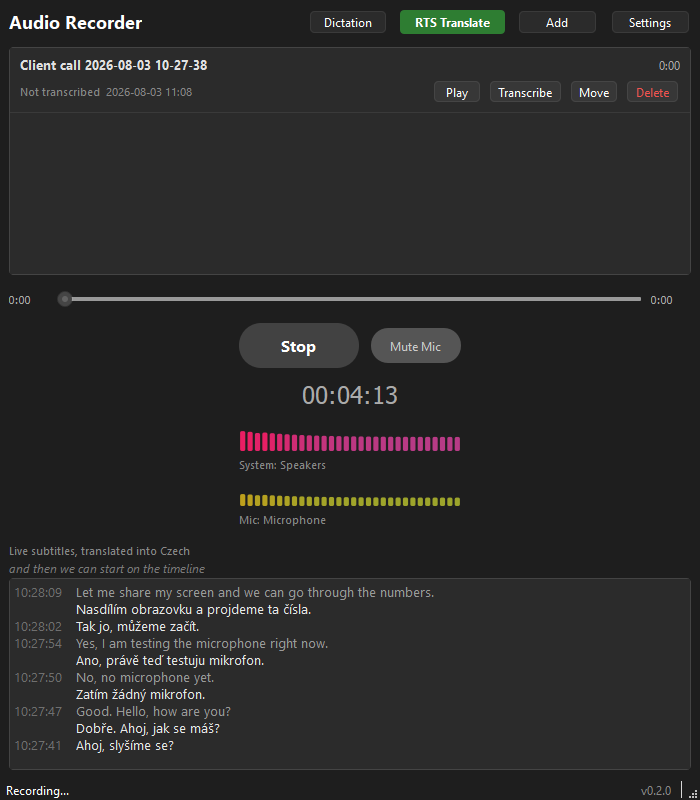
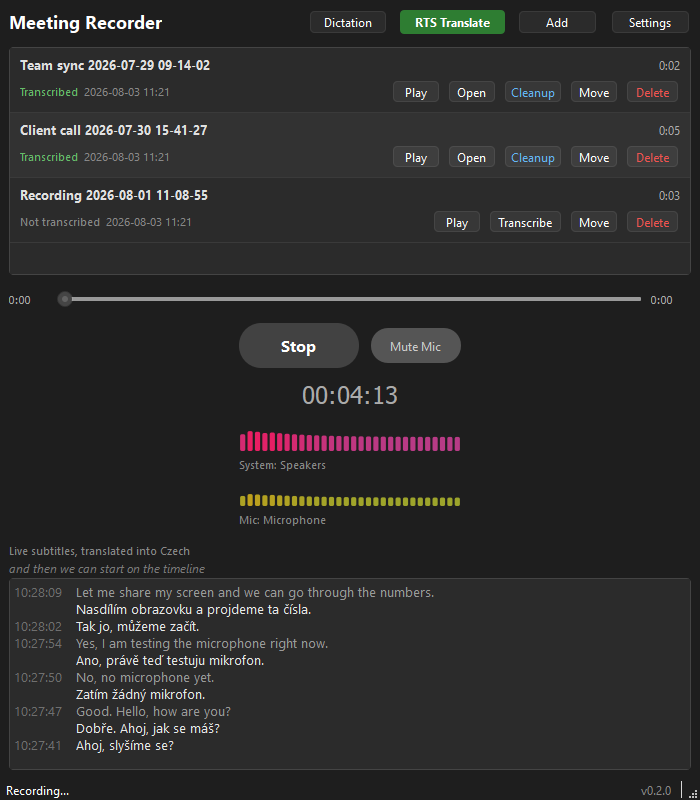
rename: Meeting Recorder, and release v0.2.0 live subtitles

diff --git a/scripts/build.py b/scripts/build.py
@@ -23,14 +23,14 @@ from pathlib import Path
 ROOT = Path(__file__).resolve().parent.parent
 DIST = ROOT / "dist"
 RELEASE = ROOT / "release"
-SPEC = ROOT / "AudioRecorder.spec"
+SPEC = ROOT / "MeetingRecorder.spec"
 ASSETS = ROOT / "audiorecorder" / "assets"
 
 sys.path.insert(0, str(ROOT))
 from audiorecorder.version import __version__  # noqa: E402
 
-PRODUCT = "Audio Recorder"
-ARTIFACT_STEM = "Audio-Recorder"
+PRODUCT = "Meeting Recorder"
+ARTIFACT_STEM = "Meeting-Recorder"
 ICON_SIZES = (16, 32, 48, 64, 128, 256, 512, 1024)
 
 
@@ -85,7 +85,7 @@ def build():
 
 
 def package_windows():
-    executable = DIST / "AudioRecorder.exe"
+    executable = DIST / "MeetingRecorder.exe"
     if not executable.exists():
         raise SystemExit(f"{executable} is missing, run the build first")
     target = RELEASE / f"{ARTIFACT_STEM}-{__version__}-{arch_tag()}.exe"
@@ -111,25 +111,25 @@ def package_macos():
 
 
 def package_linux():
-    program = DIST / "AudioRecorder"
+    program = DIST / "MeetingRecorder"
     if not program.exists():
         raise SystemExit(f"{program} is missing, run the build first")
 
     tarball = RELEASE / f"{ARTIFACT_STEM}-{__version__}-linux-{arch_tag()}.tar.gz"
     tarball.unlink(missing_ok=True)
-    run(["tar", "-czf", str(tarball), "-C", str(DIST), "AudioRecorder"])
+    run(["tar", "-czf", str(tarball), "-C", str(DIST), "MeetingRecorder"])
 
-    appdir = DIST / "AudioRecorder.AppDir"
+    appdir = DIST / "MeetingRecorder.AppDir"
     if appdir.exists():
         shutil.rmtree(appdir)
     shutil.copytree(program, appdir / "usr" / "bin")
-    shutil.copy2(ROOT / "packaging" / "appimage" / "audio-recorder.desktop",
-                 appdir / "audio-recorder.desktop")
-    shutil.copy2(ASSETS / "icon.png", appdir / "audio-recorder.png")
+    shutil.copy2(ROOT / "packaging" / "appimage" / "meeting-recorder.desktop",
+                 appdir / "meeting-recorder.desktop")
+    shutil.copy2(ASSETS / "icon.png", appdir / "meeting-recorder.png")
     apprun = appdir / "AppRun"
     apprun.write_text(
         '#!/bin/sh\nHERE="$(dirname "$(readlink -f "$0")")"\n'
-        'exec "$HERE/usr/bin/AudioRecorder" "$@"\n', encoding="utf-8", newline="\n")
+        'exec "$HERE/usr/bin/MeetingRecorder" "$@"\n', encoding="utf-8", newline="\n")
     apprun.chmod(0o755)
 
     tool = shutil.which("appimagetool") or shutil.which("appimagetool-x86_64.AppImage")

diff --git a/audiorecorder/ui/main_window.py b/audiorecorder/ui/main_window.py
@@ -123,7 +123,7 @@ class MainWindow(QMainWindow):
         self._hotkey_filter = DictationHotkeyFilter(lambda: self._dictation_active)
         QApplication.instance().installEventFilter(self._hotkey_filter)
 
-        self.setWindowTitle(f"Audio Recorder - v{__version__}")
+        self.setWindowTitle(f"Meeting Recorder - v{__version__}")
         self.setMinimumSize(600, 650)
         self._build_ui()
         self._refresh_list()
@@ -154,7 +154,7 @@ class MainWindow(QMainWindow):
 
         # --- Header ---
         header = QHBoxLayout()
-        title = QLabel("Audio Recorder")
+        title = QLabel("Meeting Recorder")
         title.setStyleSheet("font-size: 18px; font-weight: bold;")
         header.addWidget(title)
         header.addStretch()

diff --git a/audiorecorder/update_check.py b/audiorecorder/update_check.py
@@ -12,8 +12,8 @@ import re
 
 import requests
 
-RELEASES_API = "https://api.github.com/repos/ludekvodicka/AudioRecorder/releases/latest"
-RELEASES_PAGE = "https://github.com/ludekvodicka/AudioRecorder/releases/latest"
+RELEASES_API = "https://api.github.com/repos/ludekvodicka/MeetingRecorder/releases/latest"
+RELEASES_PAGE = "https://github.com/ludekvodicka/MeetingRecorder/releases/latest"
 TIMEOUT_SECONDS = 5
 
 _SEMVER = re.compile(r"^v?(\d+)\.(\d+)\.(\d+)")

diff --git a/scripts/generate_third_party.py b/scripts/generate_third_party.py
@@ -26,7 +26,7 @@ SPECIFIER = re.compile(r"[<>=!~]")
 
 HEADER = """# Third-party components
 
-Audio Recorder is distributed with the Python packages below, together with the
+Meeting Recorder is distributed with the Python packages below, together with the
 dependencies those packages bring in themselves. Each remains under its own licence, held
 by its own authors.
 

diff --git a/audiorecorder/config.py b/audiorecorder/config.py
@@ -11,6 +11,8 @@ from pathlib import Path
 
 import platformdirs
 
+# "AudioRecorder", not the current product name: this decides where an existing
+# installation already keeps its settings. Renaming it would strand what is there.
 CONFIG_DIR = Path(platformdirs.user_config_dir("AudioRecorder", appauthor=False))
 CONFIG_PATH = CONFIG_DIR / "config.json"
 

diff --git a/audiorecorder/single_instance.py b/audiorecorder/single_instance.py
@@ -13,6 +13,8 @@ import logging
 from PyQt6.QtCore import QObject, pyqtSignal
 from PyQt6.QtNetwork import QLocalServer, QLocalSocket
 
+# The original product name, so a copy left running from an older build is still
+# recognised as the same application during an upgrade.
 SERVER_NAME = "AudioRecorder.single-instance"
 CONNECT_TIMEOUT_MS = 500
 

diff --git a/audiorecorder/secrets.py b/audiorecorder/secrets.py
@@ -11,6 +11,8 @@ import os
 import keyring
 from keyring.errors import KeyringError
 
+# "AudioRecorder", not the current product name: this decides where an existing
+# installation already keeps the stored key. Renaming it would strand what is there.
 SERVICE = "AudioRecorder"
 ACCOUNT = "soniox-api-key"
 ENV_VAR = "SONIOX_API_KEY"

diff --git a/audiorecorder/app.py b/audiorecorder/app.py
@@ -49,7 +49,7 @@ def main():
     save_config(cfg)
 
     app = QApplication(sys.argv)
-    app.setApplicationName("Audio Recorder")
+    app.setApplicationName("Meeting Recorder")
     app.setStyle("Fusion")
     app.setWindowIcon(QIcon(str(asset_path("icon.svg"))))
 

diff --git a/README.md b/README.md
@@ -1,10 +1,10 @@
-# Audio Recorder
+# Meeting Recorder
 
-[![CI](https://github.com/ludekvodicka/AudioRecorder/actions/workflows/ci.yml/badge.svg?branch=main)](https://github.com/ludekvodicka/AudioRecorder/actions/workflows/ci.yml)
-[![Release build](https://github.com/ludekvodicka/AudioRecorder/actions/workflows/release.yml/badge.svg)](https://github.com/ludekvodicka/AudioRecorder/actions/workflows/release.yml)
-[![Latest release](https://img.shields.io/github/v/release/ludekvodicka/AudioRecorder)](https://github.com/ludekvodicka/AudioRecorder/releases/latest)
-[![Downloads](https://img.shields.io/github/downloads/ludekvodicka/AudioRecorder/total)](https://github.com/ludekvodicka/AudioRecorder/releases)
-[![License](https://img.shields.io/github/license/ludekvodicka/AudioRecorder)](LICENSE)
+[![CI](https://github.com/ludekvodicka/MeetingRecorder/actions/workflows/ci.yml/badge.svg?branch=main)](https://github.com/ludekvodicka/MeetingRecorder/actions/workflows/ci.yml)
+[![Release build](https://github.com/ludekvodicka/MeetingRecorder/actions/workflows/release.yml/badge.svg)](https://github.com/ludekvodicka/MeetingRecorder/actions/workflows/release.yml)
+[![Latest release](https://img.shields.io/github/v/release/ludekvodicka/MeetingRecorder)](https://github.com/ludekvodicka/MeetingRecorder/releases/latest)
+[![Downloads](https://img.shields.io/github/downloads/ludekvodicka/MeetingRecorder/total)](https://github.com/ludekvodicka/MeetingRecorder/releases)
+[![License](https://img.shields.io/github/license/ludekvodicka/MeetingRecorder)](LICENSE)
 
 A desktop application that records a call from both sides at once: what comes out of your
 speakers and what goes into your microphone, mixed into one file. Afterwards it can send the
@@ -96,7 +96,7 @@ off there and the button says why. Recording and transcription are unaffected.
 ## Install
 
 Download the build for your platform from
-[Releases](https://github.com/ludekvodicka/AudioRecorder/releases).
+[Releases](https://github.com/ludekvodicka/MeetingRecorder/releases).
 
 **The builds are unsigned.** Check the SHA256 of your download against `SHA256SUMS.txt` in the
 same release before running it:
@@ -110,7 +110,7 @@ certutil -hashfile Audio-Recorder-0.1.0-x64.exe SHA256      # Windows
   about an unknown publisher.
 - **macOS** - a `.dmg`, **Apple Silicon only**, because that is what the build runners are.
   On an Intel Mac, build from source. Gatekeeper refuses unsigned applications, so run
-  `xattr -cr "/Applications/Audio Recorder.app"` after copying it across.
+  `xattr -cr "/Applications/Meeting Recorder.app"` after copying it across.
 - **Linux** - an `.AppImage`, or a `.tar.gz` if you prefer to unpack it yourself. Needs
   PulseAudio or pipewire-pulse, and `xclip` or `xsel` for dictation.
 
@@ -148,7 +148,9 @@ own.
 The Soniox key is held by the operating system keyring: Credential Manager on Windows, Keychain
 on macOS, Secret Service on Linux. Settings live in your user configuration directory
 (`%LOCALAPPDATA%\AudioRecorder` on Windows, `~/Library/Application Support/AudioRecorder` on
-macOS, `~/.config/AudioRecorder` on Linux), never next to the executable.
+macOS, `~/.config/AudioRecorder` on Linux), never next to the executable. That directory and
+the keyring entry still carry the application's original name, so an upgrade finds the
+settings and the key that are already there.
 
 Recording a call may need everyone's consent where you live. That is on you, not on the tool.
 

diff --git a/docs/manual-test-checklist.md b/docs/manual-test-checklist.md
@@ -41,7 +41,7 @@ and say in the release notes what was not exercised.
 - [ ] Cleanup on a transcript writes a `.summary.md` (needs the Claude CLI on PATH)
 - [ ] Without the Claude CLI on PATH, Cleanup fails with a readable message and no crash
 - [ ] Dictation on, hold Ctrl+Space, speak, release: the text is pasted where the caret is
-- [ ] The same again with the Audio Recorder window focused, and with the Dictation button
+- [ ] The same again with the Meeting Recorder window focused, and with the Dictation button
       the last thing clicked. The spacebar activates a focused button, so this is where
       dictation used to switch itself off the moment it started
 - [ ] The clipboard content you had before the dictation is back afterwards

diff --git a/SECURITY.md b/SECURITY.md
@@ -3,7 +3,7 @@
 ## Reporting a vulnerability
 
 Report privately through
-[GitHub security advisories](https://github.com/ludekvodicka/AudioRecorder/security/advisories/new)
+[GitHub security advisories](https://github.com/ludekvodicka/MeetingRecorder/security/advisories/new)
 rather than opening a public issue. Expect an acknowledgement within a week.
 
 This is a spare-time project with one maintainer, so there is no bounty and no guaranteed fix

diff --git a/THIRD-PARTY.md b/THIRD-PARTY.md
@@ -1,6 +1,6 @@
 # Third-party components
 
-Audio Recorder is distributed with the Python packages below, together with the
+Meeting Recorder is distributed with the Python packages below, together with the
 dependencies those packages bring in themselves. Each remains under its own licence, held
 by its own authors.
 
